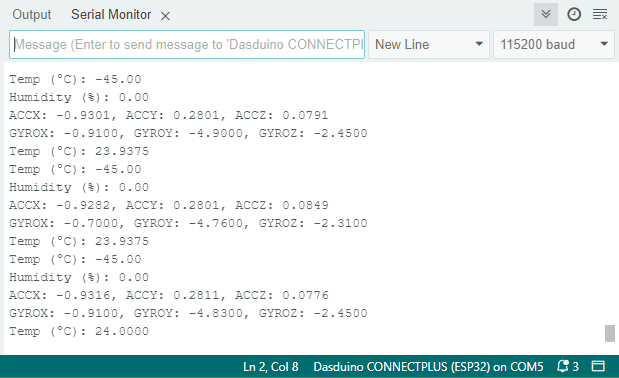
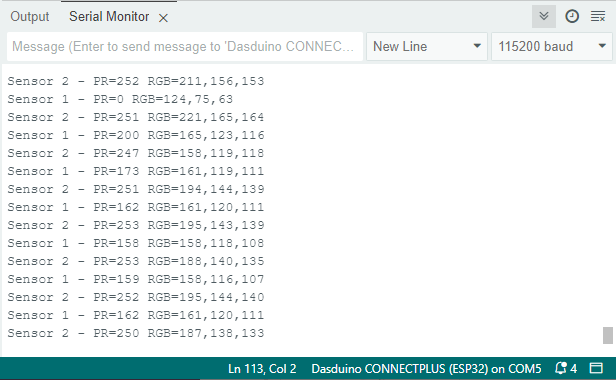
Update (Example change)

diff --git a/soldered-documentation/docs/actuators/tca9548a/arduino_library/tca9548a_arduino_2.md b/soldered-documentation/docs/actuators/tca9548a/arduino_library/tca9548a_arduino_2.md
@@ -5,32 +5,36 @@ id: tca9548a-arduino-2
 hide_title: False
 ---
 
-This page contains an example for setting up the **LSM6DS3** and **SHTC3** sensors with I2C multiplexer **TCA9548A**.
+This page contains an example for setting up the 2 **APDS-9960** sensors with I2C multiplexer **TCA9548A**.
 
 ---
 
 ## Connections for this example
 
-<CenteredImage src="/img/tca9548a/led_connection.png" alt="LSM6DS3 and SHTC3 sensors with I2C multiplexer TCA9548A" caption="LSM6DS3 and SHTC3 sensors with I2C multiplexer TCA9548A" width="600px" />
+<CenteredImage src="/img/tca9548a/led_connection.png" alt="APDS-9960 sensors with I2C multiplexer TCA9548A" caption="APDS-9960 sensors with I2C multiplexer TCA9548A" width="600px" />
 <CenteredImage src="/img/tca9548a/sides.png" alt="Serial monitor for TCA9548A" caption="Serial monitor for TCA9548A" width="600px" />
 
 ---
 
 ## Full example
 
-In this example, we first include the necessary libraries for the **TCA9548A I2C multiplexer**, **SHTC3 sensor**, and **LSM6DS3TR sensor**. We then create instances of the multiplexer and sensors. In the `setup()` function, we initialize the I2C communication with the multiplexer and sensors, ensuring all channels are properly configured. Finally, in the `loop()` function, we read data from each sensor on its respective channel and print the results to the Serial Monitor.
-
+In this example, we first include the necessary libraries for the TCA9548A I2C multiplexer and APDS-9960 sensors. We then create instances of the multiplexer and sensors. In the `setup()` function, we initialize the I2C communication with the multiplexer and configure each sensor on its respective channel. The multiplexer ensures that each sensor operates independently without address conflicts.
 
 ```cpp
 #include "TCA9548A-SOLDERED.h"
-#include "SHTC3-SOLDERED.h"
-#include "LSM6DS3-SOLDERED.h"
+#include "APDS9960-SOLDERED.h"
 #include <Arduino.h>
 
-// Create objects for the multiplexer, SHTC3, and LSM6DS3 sensors
+// Create objects for the multiplexer and APDS-9960 sensors
 TCA9548A I2CMux; // Default address is 0x70
-SHTC3 shtcSensor;
-Soldered_LSM6DS3 myIMU; // Default address is 0x6B
+APDS_9960 APDS1; // APDS-9960 on Channel 0
+APDS_9960 APDS2; // APDS-9960 on Channel 1
+
+// Variables for sensor data
+int proximity1 = 0, proximity2 = 0;
+int r1 = 0, g1 = 0, b1 = 0;
+int r2 = 0, g2 = 0, b2 = 0;
+unsigned long lastUpdate = 0;
 
 void setup()
 {
@@ -41,70 +45,94 @@ void setup()
     I2CMux.begin();       // Initialize multiplexer
     I2CMux.closeAll();    // Ensure all channels are closed initially
 
-    // Initialize SHTC3 sensor on channel 0
+    // Initialize APDS-9960 sensor on Channel 0
     I2CMux.openChannel(0);
-    if (!shtcSensor.begin())
+    if (!APDS1.begin())
     {
-        Serial.println("Failed to initialize SHTC3 sensor!");
+        Serial.println("Error initializing APDS-9960 sensor on Channel 0.");
+        while (true)
+            ; // Stop forever
     }
     else
     {
-        Serial.println("SHTC3 sensor initialized successfully.");
+        Serial.println("APDS-9960 sensor initialized successfully on Channel 0.");
     }
     I2CMux.closeChannel(0);
 
-    // Initialize LSM6DS3TR sensor on channel 1
+    // Initialize APDS-9960 sensor on Channel 1
     I2CMux.openChannel(1);
-    if (!myIMU.begin())
+    if (!APDS2.begin())
     {
-        Serial.println("Failed to initialize LSM6DS3TR sensor!");
+        Serial.println("Error initializing APDS-9960 sensor on Channel 1.");
+        while (true)
+            ; // Stop forever
     }
     else
     {
-        Serial.println("LSM6DS3TR sensor initialized successfully.");
+        Serial.println("APDS-9960 sensor initialized successfully on Channel 1.");
     }
     I2CMux.closeChannel(1);
 }
 
 void loop()
 {
-    // Read data from SHTC3 sensor on channel 0
+    // Read data from APDS-9960 sensor on Channel 0
     I2CMux.openChannel(0);
-    shtcSensor.sample();
-    Serial.print("Temp (°C): ");
-    Serial.println(shtcSensor.readTempC(), 2);
-    Serial.print("Humidity (%): ");
-    Serial.println(shtcSensor.readHumidity(), 2);
+
+    if (APDS1.proximityAvailable())
+    {
+        proximity1 = APDS1.readProximity(); // Read proximity from Sensor 1
+    }
+
+    if (APDS1.colorAvailable())
+    {
+        APDS1.readColor(r1, g1, b1); // Read color from Sensor 1
+    }
+
     I2CMux.closeChannel(0);
 
-    delay(1000); // Wait before switching to the next channel
+    delay(100); // Wait before switching to the next channel
 
-    // Read data from LSM6DS3TR sensor on channel 1
+    // Read data from APDS-9960 sensor on Channel 1
     I2CMux.openChannel(1);
-    
-    // Read acceleration data
-    Serial.print("ACCX: ");
-    Serial.print(myIMU.readFloatAccelX(), 4);
-    Serial.print(", ACCY: ");
-    Serial.print(myIMU.readFloatAccelY(), 4);
-    Serial.print(", ACCZ: ");
-    Serial.println(myIMU.readFloatAccelZ(), 4);
 
-    // Read gyroscope data
-    Serial.print("GYROX: ");
-    Serial.print(myIMU.readFloatGyroX(), 4);
-    Serial.print(", GYROY: ");
-    Serial.print(myIMU.readFloatGyroY(), 4);
-    Serial.print(", GYROZ: ");
-    Serial.println(myIMU.readFloatGyroZ(), 4);
+    if (APDS2.proximityAvailable())
+    {
+        proximity2 = APDS2.readProximity(); // Read proximity from Sensor 2
+    }
 
-    // Read temperature data from LSM6DS3TR
-    Serial.print("Temp (°C): ");
-    Serial.println(myIMU.readTempC(), 4);
+    if (APDS2.colorAvailable())
+    {
+        APDS2.readColor(r2, g2, b2); // Read color from Sensor 2
+    }
 
     I2CMux.closeChannel(1);
 
-    delay(2000); // Wait before the next loop iteration
+    // Print updates every 1000 ms
+    if (millis() - lastUpdate > 1000)
+    {
+        lastUpdate = millis();
+
+        Serial.print("Sensor 1 - PR=");
+        Serial.print(proximity1);
+        Serial.print(" RGB=");
+        Serial.print(r1);
+        Serial.print(",");
+        Serial.print(g1);
+        Serial.print(",");
+        Serial.println(b1);
+
+        Serial.print("Sensor 2 - PR=");
+        Serial.print(proximity2);
+        Serial.print(" RGB=");
+        Serial.print(r2);
+        Serial.print(",");
+        Serial.print(g2);
+        Serial.print(",");
+        Serial.println(b2);
+    }
+
+    delay(100); // Small delay before repeating the loop
 }
 ```
 
